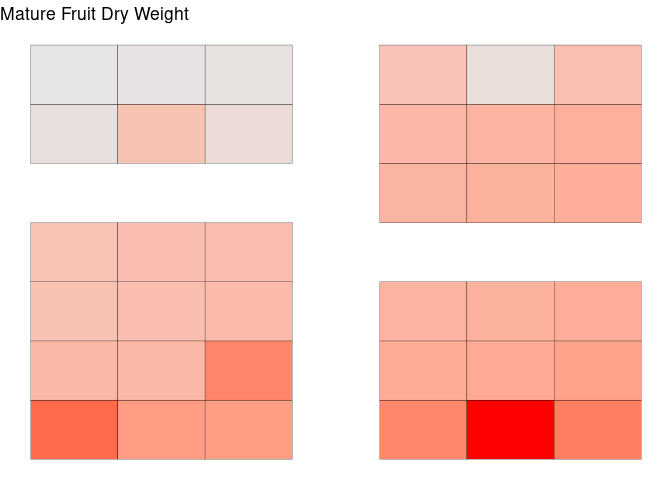
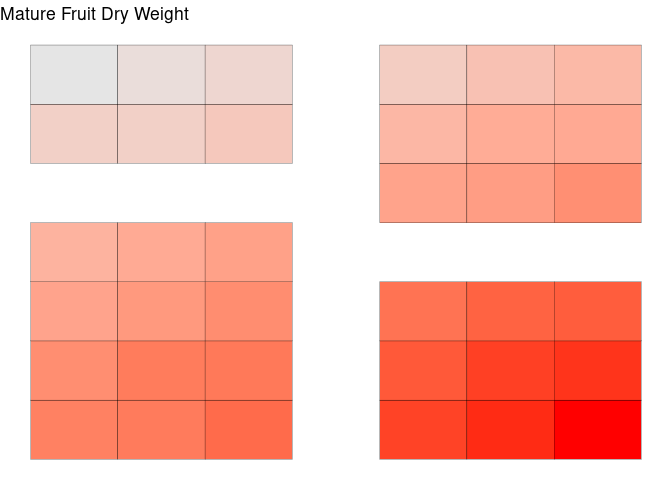
updating simulation code as cumsum shortcut misunderstood

diff --git a/README.md b/README.md
@@ -80,13 +80,26 @@ coefficients of growth equations)
     head(output)
 
     ##   row col total_plant_weight fruit_dry_weight mature_fruit_weight
-    ## 1   1   1          0.8716994       0.10164215          0.31634842
-    ## 2   2   1          1.9455343       0.05915287          0.15458931
-    ## 3   3   1          2.3353738       0.06525279          0.13140902
-    ## 4   4   1          2.0078426       0.05994222          0.13059275
-    ## 6   6   1          1.9438241       0.02988962          0.06093980
-    ## 7   7   1          1.8961110       0.02949877          0.04854871
+    ## 1   1   1           709.1281         36.28879            29.44600
+    ## 2   2   1           716.5291         34.49983            27.72386
+    ## 3   3   1           728.4007         31.42083            24.86855
+    ## 4   4   1           769.2192         29.88152            22.74574
+    ## 6   6   1           838.5590         26.38313            18.59797
+    ## 7   7   1           828.4996         23.05504            15.53268
 
 #### Illustration of output
 
 ![](README_files/figure-markdown_strict/unnamed-chunk-4-1.png)
+
+## Example student plotting code
+
+    library(ggplot2)
+    ## one tomato type
+    ggplot(data = data, aes(x = treatment, y = fruit_dry_weight)) +
+      geom_violin() + geom_dotplot(binaxis = "y", method = "histodot") +
+      theme_bw() + xlab("Fertilizer Recipie") + ylab("Fruit Dry Weight (g/m^2)")
+    ## two tomato types
+    ggplot(data = data, aes(x = treatment, y = fruit_dry_weight)) +
+      geom_violin() + geom_dotplot(binaxis = "y", method = "histodot") +
+      theme_bw() + xlab("Fertilizer Recipie") + ylab("Fruit Dry Weight (g/m^2)") +
+      facet_wrap(~species)
